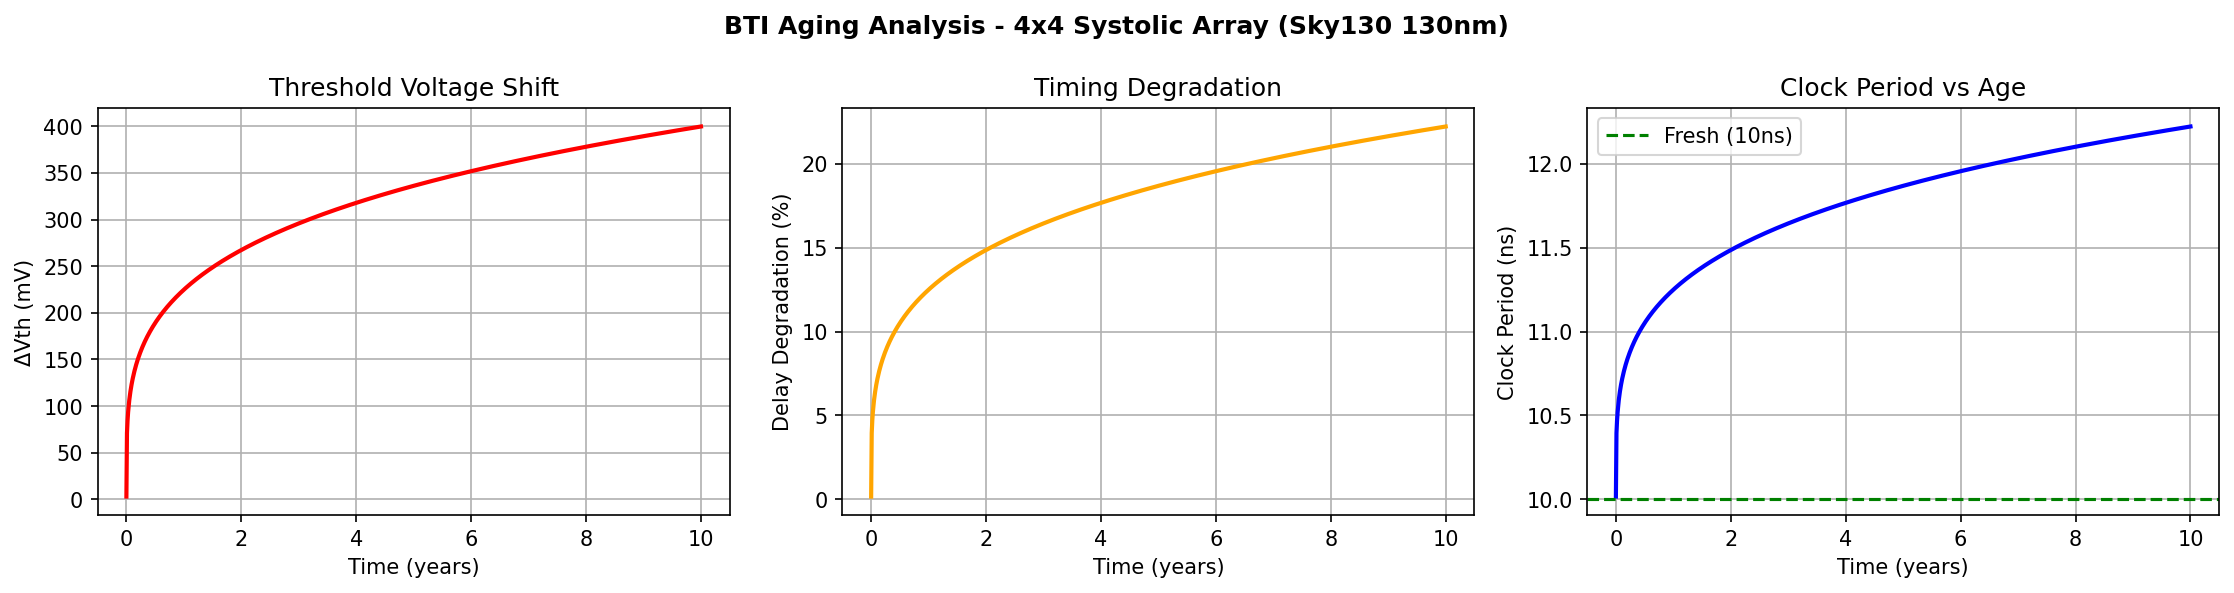
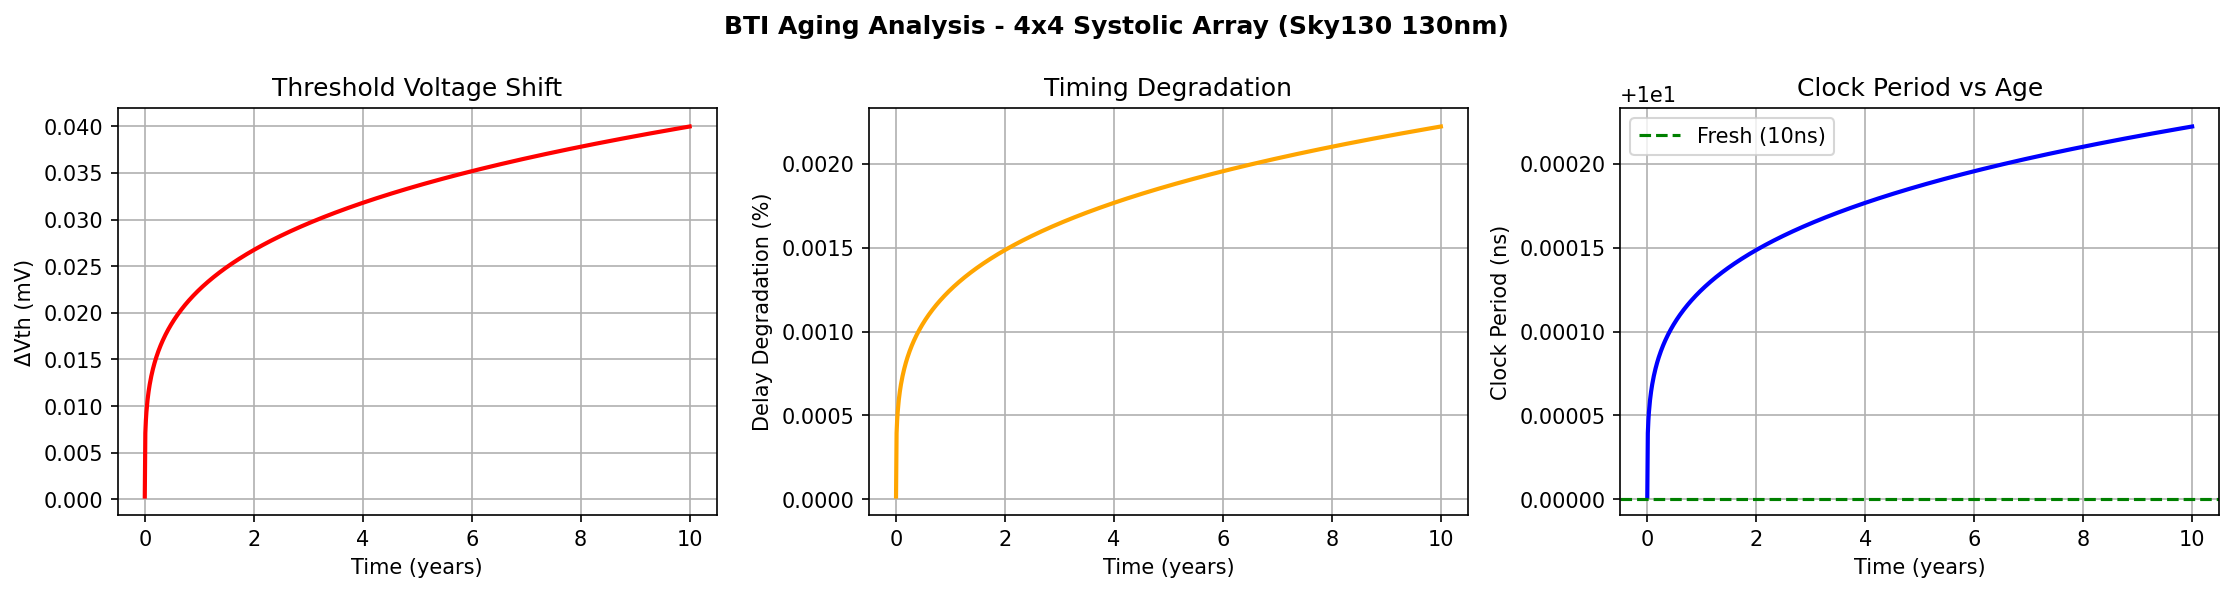
BTI: replace unrealistic coefficient with scaled demo model and regenerate plot

diff --git a/python/aging_analysis/bti_aging.py b/python/aging_analysis/bti_aging.py
@@ -2,11 +2,11 @@ import numpy as np
 import matplotlib
 matplotlib.use('Agg')
 import matplotlib.pyplot as plt
-import os
+from pathlib import Path
 
 # BTI Model Parameters (Sky130 130nm typical values)
 Vth0 = 0.42        # Initial threshold voltage (V)
-A = 3e-7          # BTI degradation coefficient (scaled demo model)
+A = 3e-7           # BTI degradation coefficient (scaled demo model)
 n = 0.25           # Time exponent (typical 0.25 for BTI)
 T_years = 10       # Simulation period
 Vdd = 1.8          # Supply voltage (Sky130)
@@ -65,7 +65,9 @@ axes[2].legend()
 axes[2].grid(True)
 
 plt.tight_layout()
-os.makedirs('../../docs/diagrams', exist_ok=True)
-plt.savefig('../../docs/diagrams/bti_aging_analysis.png', dpi=150, bbox_inches='tight')
+repo_root = Path(__file__).resolve().parents[2]
+out_dir = repo_root / 'docs' / 'diagrams'
+out_dir.mkdir(parents=True, exist_ok=True)
+plt.savefig(out_dir / 'bti_aging_analysis.png', dpi=150, bbox_inches='tight')
 plt.close()
-print("Plot saved to docs/diagrams/bti_aging_analysis.png")
+print(f"Plot saved to {out_dir / 'bti_aging_analysis.png'}")
